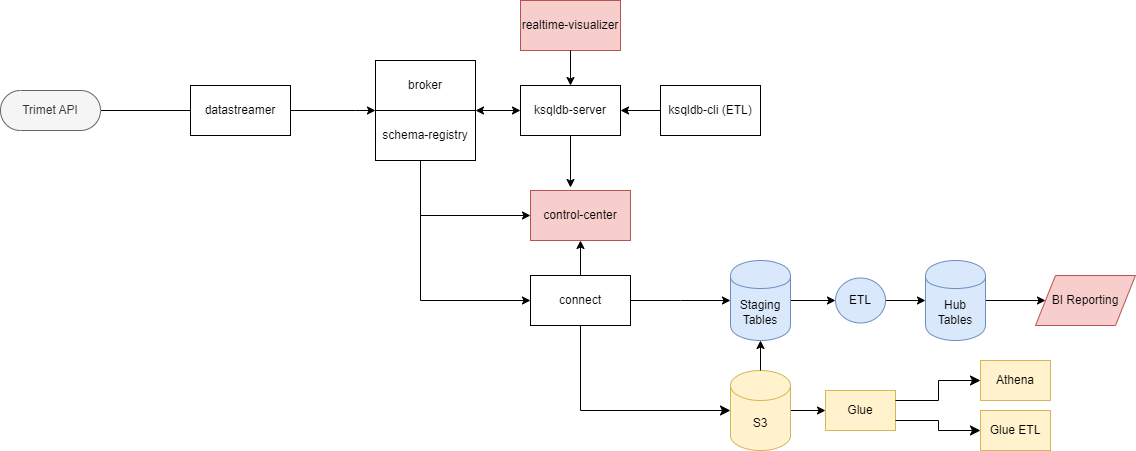
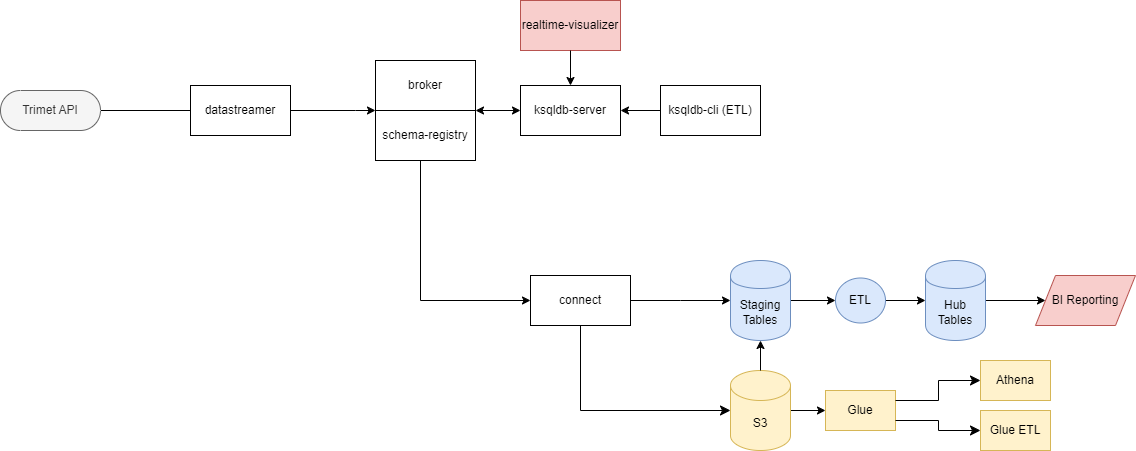
updated documentation

Changed region(s): [[0.4313, 0.4035, 0.5546, 0.5588]]

diff --git a/README.md b/README.md
@@ -32,10 +32,9 @@ The Transportation Hub is RDI's internal data streaming and data warehousing pro
    4. [realtime-visualizer](#realtime-visualizer)
    5. [ksqldb-server](#ksqldb-server)
    6. [ksqldb-cli](#ksqldb-cli)
-   7. [control-center](#control-center)
-   8. [connect](#connect)
-   9. [snowflake](#snowflake)
-   10. [aws](#aws)
+   7. [connect](#connect)
+   8. [snowflake](#snowflake)
+   9. [aws](#aws)
 
 ## Running
 
@@ -332,6 +331,8 @@ When using structured data such as json schema, protobuf, or avro, a schema regi
 
 The realtime-visualizer provides a user interface for displaying realtime data. The realtime-visualizer consists of a React.js application that makes requests to the ksqldb-server, and plots returned information in a Leaflet.js map.  The `ksqldb-server` and ultimately the kafka broker backing it provides data to the realtime visaulizer. In a locally deployed version, it can be seen on `https://localhost:8090`.
 
+![visualizer](./Documentation/imgs/realtime_visualizer.png)
+
 ### ksqldb-server
 
 ksql is kafka's most accessible, realtime ETL language. The ksqldb-server handles all ETL requests. The current flow of streaming transformations is shown below: 
@@ -376,18 +377,158 @@ CREATE TABLE VehiclesLatest
 EMIT CHANGES;
 ```
 An in-depth discussion showing the difference between streams and tables is given by [confluent](https://www.confluent.io/blog/kafka-streams-tables-part-1-event-streaming/).
+
 ### ksqldb-cli
-The ksqldb-cli provides a cli for issuing ksql requests. 
+The ksqldb-cli provides a cli for issuing ksql requests.  A ksql interactive session can be started using the alias `ksql`.  Example commands are show below:
 
-### control-center
-The control center provides a user interface for viewing everything happening in the kafka containers as well a way to supply ad-hoc configuration and ETL requests.  The control center can be accessed on a local container deployment at `https://localhost:9021`.
+```
+ksql> SHOW TABLES;
 
-![control center](./Documentation/imgs/control_center.png)
+ Table Name         | Kafka Topic    | Key Format | Value Format | Windowed
+----------------------------------------------------------------------------
+ CALENDARDATESTABLE | CalendarDates  | KAFKA      | JSON         | false
+ CALENDARTABLE      | Calendar       | KAFKA      | JSON         | false
+ ROUTEPATHSTABLE    | Shapes         | KAFKA      | JSON         | false
+ ROUTESTABLE        | Routes         | KAFKA      | JSON         | false
+ STOPSTABLE         | Stops          | KAFKA      | JSON         | false
+ TRIPSTABLE         | Trips          | KAFKA      | JSON         | false
+ VEHICLESLATEST     | VehiclesLatest | KAFKA      | PROTOBUF     | false
+----------------------------------------------------------------------------
+
+ksql> SHOW STREAMS;
+
+ Stream Name                       | Kafka Topic                       | Key Format | Value Format | Windowed
+--------------------------------------------------------------------------------------------------------------
+ ALERTENTITIESEXPLODED             | AlertEntitiesExploded             | KAFKA      | PROTOBUF     | false
+ ALERTS                            | FeedSpecAlerts                    | KAFKA      | PROTOBUF     | false
+ ALERTSALT                         | alerts                            | KAFKA      | JSON_SR      | false
+ ALERTSALTEXPLODED                 | AlertsAltExploded                 | KAFKA      | PROTOBUF     | false
+ KSQL_PROCESSING_LOG               | default_ksql_processing_log       | KAFKA      | JSON         | false
+ TRIPENTITIESEXPLODED              | TripEntitiesExploded              | KAFKA      | PROTOBUF     | false
+ TRIPENTITIESEXPLODEDSTOPSEXPLODED | TripEntitiesExplodedStopsExploded | KAFKA      | PROTOBUF     | false
+ TRIPS                             | TripUpdate                        | KAFKA      | PROTOBUF     | false
+ VEHICLEENTITIESEXPLODED           | VehicleEntitiesExploded           | KAFKA      | PROTOBUF     | false
+ VEHICLES                          | VehiclePositions                  | KAFKA      | PROTOBUF     | false
+ VEHICLESALT                       | vehicles                          | KAFKA      | JSON_SR      | false
+ VEHICLESALTEXPLODED               | VehiclesAltExploded               | KAFKA      | PROTOBUF     | false
+--------------------------------------------------------------------------------------------------------------
+
+ksql> DESCRIBE VEHICLESLATEST EXTENDED;
+
+Name                 : VEHICLESLATEST
+Type                 : TABLE
+Timestamp field      : Not set - using <ROWTIME>
+Key format           : KAFKA
+Value format         : PROTOBUF
+Kafka topic          : VehiclesLatest (partitions: 1, replication: 1)
+Statement            : CREATE TABLE VEHICLESLATEST WITH (CLEANUP_POLICY='compact', KAFKA_TOPIC='VehiclesLatest', PARTITIONS=1, REPLICAS=1, RETENTION_MS=604800000, VALUE_FORMAT='PROTOBUF') AS SELECT
+  V.ENTITY->VEHICLE->VEHICLE->ID VEHICLE_ID,
+  LATEST_BY_OFFSET(V.ENTITY->VEHICLE->POSITION->LATITUDE) LATITUDE,
+  LATEST_BY_OFFSET(V.ENTITY->VEHICLE->POSITION->LONGITUDE) LONGITUDE,
+  LATEST_BY_OFFSET(V.ENTITY->VEHICLE->CURRENT_STATUS) CURRENT_STATUS,
+  LATEST_BY_OFFSET(V.ENTITY->VEHICLE->CURRENT_STOP_SEQUENCE) CURRENT_STOP_SEQUENCE,
+  LATEST_BY_OFFSET(V.ENTITY->VEHICLE->STOP_ID) STOP_ID,
+  LATEST_BY_OFFSET(T.ROUTE_ID) ROUTE_ID,
+  LATEST_BY_OFFSET(T.DIRECTION_ID) DIRECTION_ID,
+  LATEST_BY_OFFSET(V.ENTITY->VEHICLE->TIMESTAMP) TIMESTAMP,
+  LATEST_BY_OFFSET(V.ENTITY->VEHICLE->POSITION->BEARING) BEARING,
+  LATEST_BY_OFFSET(V.ENTITY->VEHICLE->POSITION->SPEED) SPEED,
+  LATEST_BY_OFFSET(T.TRIP_ID) TRIP_ID
+FROM VEHICLEENTITIESEXPLODED V
+INNER JOIN TRIPSTABLE T ON ((T.TRIP_ID = V.ENTITY->VEHICLE->TRIP->TRIP_ID))
+GROUP BY V.ENTITY->VEHICLE->VEHICLE->ID
+EMIT CHANGES;
+
+ Field                 | Type
+--------------------------------------------------------
+ VEHICLE_ID            | VARCHAR(STRING)  (primary key)
+ LATITUDE              | DOUBLE
+ LONGITUDE             | DOUBLE
+ CURRENT_STATUS        | VARCHAR(STRING)
+ CURRENT_STOP_SEQUENCE | BIGINT
+ STOP_ID               | VARCHAR(STRING)
+ ROUTE_ID              | VARCHAR(STRING)
+ DIRECTION_ID          | INTEGER
+ TIMESTAMP             | BIGINT
+ BEARING               | DOUBLE
+ SPEED                 | DOUBLE
+ TRIP_ID               | VARCHAR(STRING)
+--------------------------------------------------------
+
+Queries that write from this TABLE
+-----------------------------------
+CTAS_VEHICLESLATEST_33 (RUNNING) : CREATE TABLE VEHICLESLATEST WITH (CLEANUP_POLICY='compact', KAFKA_TOPIC='VehiclesLatest', PARTITIONS=1, REPLICAS=1, RETENTION_MS=604800000, VALUE_FORMAT='PROTOBUF') AS SELECT   V.ENTITY->VEHICLE->VEHICLE->ID VEHICLE_ID,   LATEST_BY_OFFSET(V.ENTITY->VEHICLE->POSITION->LATITUDE) LATITUDE,   LATEST_BY_OFFSET(V.ENTITY->VEHICLE->POSITION->LONGITUDE) LONGITUDE,   LATEST_BY_OFFSET(V.ENTITY->VEHICLE->CURRENT_STATUS) CURRENT_STATUS,   LATEST_BY_OFFSET(V.ENTITY->VEHICLE->CURRENT_STOP_SEQUENCE) CURRENT_STOP_SEQUENCE,   LATEST_BY_OFFSET(V.ENTITY->VEHICLE->STOP_ID) STOP_ID,   LATEST_BY_OFFSET(T.ROUTE_ID) ROUTE_ID,   LATEST_BY_OFFSET(T.DIRECTION_ID) DIRECTION_ID,   LATEST_BY_OFFSET(V.ENTITY->VEHICLE->TIMESTAMP) TIMESTAMP,   LATEST_BY_OFFSET(V.ENTITY->VEHICLE->POSITION->BEARING) BEARING,   LATEST_BY_OFFSET(V.ENTITY->VEHICLE->POSITION->SPEED) SPEED,   LATEST_BY_OFFSET(T.TRIP_ID) TRIP_ID FROM VEHICLEENTITIESEXPLODED V INNER JOIN TRIPSTABLE T ON ((T.TRIP_ID = V.ENTITY->VEHICLE->TRIP->TRIP_ID)) GROUP BY V.ENTITY->VEHICLE->VEHICLE->ID EMIT CHANGES;
+
+For query topology and execution plan please run: EXPLAIN <QueryId>
+
+Runtime statistics by host
+-------------------------
+ Host               | Metric           | Value      | Last Message
+-------------------------------------------------------------------------------
+ ksqldb-server:8088 | messages-per-sec |        388 | 2023-10-25T21:44:15.418Z
+ ksqldb-server:8088 | total-messages   |    7047872 | 2023-10-25T21:44:15.418Z
+-------------------------------------------------------------------------------
+(Statistics of the local KSQL server interaction with the Kafka topic VehiclesLatest)
+
+Consumer Groups summary:
+
+Consumer Group       : _confluent-ksql-default_query_CTAS_VEHICLESLATEST_33
+
+Kafka topic          : _confluent-ksql-default_query_CTAS_VEHICLESLATEST_33-Join-repartition
+Max lag              : 433
+
+ Partition | Start Offset | End Offset | Offset  | Lag
+-------------------------------------------------------
+ 0         | 7185246      | 7188282    | 7187849 | 433
+-------------------------------------------------------
+
+Kafka topic          : Trips
+Max lag              : 0
+
+ Partition | Start Offset | End Offset | Offset | Lag
+------------------------------------------------------
+ 0         | 0            | 64119      | 64119  | 0
+------------------------------------------------------
+
+Kafka topic          : _confluent-ksql-default_query_CTAS_VEHICLESLATEST_33-Aggregate-GroupBy-repartition
+Max lag              : 425
+
+ Partition | Start Offset | End Offset | Offset  | Lag
+-------------------------------------------------------
+ 0         | 7042738      | 7047872    | 7047447 | 425
+-------------------------------------------------------
+
+Kafka topic          : VehicleEntitiesExploded
+Max lag              : 0
+
+ Partition | Start Offset | End Offset | Offset  | Lag
+-------------------------------------------------------
+ 0         | 0            | 7192767    | 7192767 | 0
+-------------------------------------------------------
+ksql> SELECT * FROM VEHICLESLATEST EMIT CHANGES;
++--------+--------+--------+--------+--------+--------+--------+--------+--------+--------+--------+--------+
+|VEHICLE_|LATITUDE|LONGITUD|CURRENT_|CURRENT_|STOP_ID |ROUTE_ID|DIRECTIO|TIMESTAM|BEARING |SPEED   |TRIP_ID |
+|ID      |        |E       |STATUS  |STOP_SEQ|        |        |N_ID    |P       |        |        |        |
+|        |        |        |        |UENCE   |        |        |        |        |        |        |        |
++--------+--------+--------+--------+--------+--------+--------+--------+--------+--------+--------+--------+
+|233     |45.53004|-122.653|STOPPED_|29      |8343    |100     |0       |16982512|90.0    |0.0     |12957121|
+|        |83703613|67889404|AT      |        |        |        |        |16      |        |        |        |
+|        |3       |297     |        |        |        |        |        |        |        |        |        |
+|103     |45.53004|-122.653|STOPPED_|29      |8343    |100     |0       |16982512|90.0    |0.0     |12957121|
+|        |83703613|67889404|AT      |        |        |        |        |16      |        |        |        |
+|        |3       |297     |        |        |        |        |        |        |        |        |        |
+|201     |45.51786|-122.676|IN_TRANS|22      |8336    |100     |0       |16982512|110.0   |0.0     |12957122|
+|        |42272949|86462402|IT_TO   |        |        |        |        |05      |        |        |        |
+|        |2       |344     |        |        |        |        |        |        |        |        |        |
+...
+```
 
 ### connect
+
 The kafka connect plugin is a suite of tools for connecting outside data sources as sinks and sources, places for sending and getting data respectively.  In our case, we are sending the data to snowflake and S3.  The only customization we make to the regular kafka connect container is to install the snowflake connector by copying the jar file for snowflake connect app along with bouncycastle, which is needed for decrypting ssh passphrases.  The snowflake sink connector is configured using `SnowflakeSinkConfig.json`.  Current connector configurations can be accessed from the control center under the connect section.
 
 ### snowflake
+
 Select topics, specified in the "topics" field of the `SnowflakeSinkConfig.json` file are sent to snowflake staging tables.  S3 data can also be used as inputs for Snowflake data.  A range of ETL jobs defined with [DBT](./DBT/README.md) than transforms that input data to a form that is appropriate for BI reporting in the hub tables.  The ETL sql code for Snowflake is defined in the `DBT` directory.
 
 ### aws
